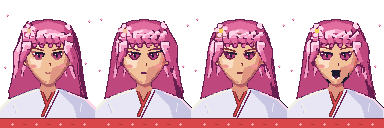
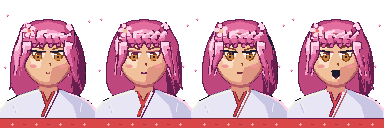
Sakura bust: ship variant 4 (amber almond eyes with clear whites, rounder bob), plumper face and softer shoulders
Claude-Session: https://claude.ai/code/session_01J8LgTLVYzThXjNSRVhWqep

diff --git a/tools/sprites/anime_busts.py b/tools/sprites/anime_busts.py
@@ -564,12 +564,12 @@ HAIRS = {H_EDGE, HR, H_D, H_L, H_HI}
 EYES = {
     "narrow": dict(ow=3.4, outer=-2.4, inner=-0.6, peak=0.0, lo=(0.55, 0.4, 0.8, 0.6), white=False, irx=0, iry=0, shift=0,
                    hl2=False, cy=27.8, gap=9.6, brow=0.0),
-    "almond": dict(ow=3.2, outer=-1.9, inner=-0.9, peak=0.0, lo=(0.5, 0.4, 1.2, 1.0), white=True, irx=2.2, iry=2.6,
-                   shift=0.4, hl2=False, cy=27.8, gap=9.6, brow=0.0),
+    "almond": dict(ow=3.6, outer=-2.5, inner=-1.7, peak=0.0, lo=(0.5, 0.4, 1.9, 1.7), white=True, irx=1.8, iry=2.25,
+                   shift=0.0, hl2=False, cy=27.8, gap=9.6, brow=0.7),
     "round": dict(ow=3.5, outer=-2.1, inner=-1.3, peak=1.1, lo=(0.0, 0.0, 2.7, 2.3), white=True, irx=2.7, iry=3.1,
                   shift=0.2, hl2=True, cy=28.4, gap=9.4, brow=0.7),
 }
-SDEFAULT = dict(eyes="almond", iris="rose", hair="long", cheeks=0.0, shade=1)
+SDEFAULT = dict(eyes="almond", iris="amber", hair="bob", cheeks=0.03, shade=1)       # variant 4, plumper
 SCFG = dict(SDEFAULT)
 
 
@@ -610,8 +610,8 @@ def ellipse_pts(cx, cy, rx, ry, n=24):
 
 
 # face: Flint's polygon, narrowed about 1.4 units at the jaw with a softer chin (cheeks widen / narrow it a bit)
-SFACE0 = [(13.4, 17), (34.6, 17), (35.4, 27.5), (34.0, 33), (30.2, 38.4), (26.6, 41.8), (24, 42.8), (21.4, 41.8),
-          (17.8, 38.4), (14.0, 33), (12.6, 27.5)]
+SFACE0 = [(13.4, 17), (34.6, 17), (35.6, 27.5), (35.6, 31.5), (34.6, 35.2), (31.8, 39.4), (28.0, 42.2), (24, 43.0),
+          (20.0, 42.2), (16.2, 39.4), (13.4, 35.2), (12.4, 31.5), (12.4, 27.5)]
 
 
 def s_face_pts():
@@ -620,9 +620,9 @@ def s_face_pts():
 
 
 STOFF = 0.8                    # Flint's 3.5 less 2.7: a shorter neck
-SNECK = [(20.6, 35), (27.4, 35), (28.0, 45), (20.0, 45)]
-STORSO = [(0, 64), (0, 53.5), (5, 48.5), (14, 45.0), (20.4, 43.0), (23.45, 52.0), (27.6, 43.0), (34, 45.0), (43, 48.5),
-          (48, 53.5), (48, 64)]
+SNECK = [(20.2, 35), (27.8, 35), (28.6, 45), (19.4, 45)]
+STORSO = [(0, 64), (0, 54), (3.5, 49.8), (9, 46.9), (15, 45.0), (20.4, 43.2), (23.45, 52.0), (27.6, 43.2), (33, 45.0), (39, 46.9),
+          (44.5, 49.8), (48, 54), (48, 64)]
 
 
 def s_eye(img, d, cx, cy, side, o, wide=1.0):
@@ -652,11 +652,11 @@ def s_eye(img, d, cx, cy, side, o, wide=1.0):
     if E["white"]:
         d.polygon([P(*p) for p in pts], fill=CREAM)
         ic = cx - side * E["shift"]
-        iris = both(poly_mask(ellipse_pts(ic, cy + 0.3, E["irx"], E["iry"], 24)), am)
+        iris = both(poly_mask(ellipse_pts(ic, cy + 0.45, E["irx"], E["iry"], 24)), am)
         paste_mask(img, mid, iris)
         paste_mask(img, dark, both(iris, box_mask(0, 0, 48, cy - 0.3)))
         d = ImageDraw.Draw(img)
-        d.rectangle(((ic - 0.4) * K, (cy + 0.0) * K, (ic + 0.4) * K, (cy + 1.0) * K), fill=INK)
+        d.rectangle(((ic - 0.35) * K, (cy + 0.2) * K, (ic + 0.35) * K, (cy + 1.1) * K), fill=INK)
         hx, hy = ic - 0.75, cy - 0.7
         if E["hl2"]:
             d.rectangle(((ic + 0.9) * K - 4, (cy + 1.7) * K - 4, (ic + 0.9) * K + 4, (cy + 1.7) * K + 4), fill=WHITE)
@@ -666,9 +666,9 @@ def s_eye(img, d, cx, cy, side, o, wide=1.0):
         paste_mask(img, dark, both(am, lm))
         d = ImageDraw.Draw(img)
         hx, hy = cx + side * 0.5, cy - 0.7
-    d.line([P(*p) for p in lo], fill=MAROON, width=6)
+    d.line([P(*p) for p in lo[len(lo) // 2:]], fill=SK_D if E["white"] else MAROON, width=5 if E["white"] else 6)
     d.rectangle((hx * K - 7, hy * K - 7, hx * K + 7, hy * K + 7), fill=WHITE)
-    d.line([P(*p) for p in up], fill=INK, width=11)
+    d.line([P(*p) for p in up], fill=INK, width=11 if not E["white"] else 9)
     d.line([P(*outer), P(outer[0] + side * 1.3, outer[1] - 0.8)], fill=INK, width=8)
     return d
 
@@ -752,7 +752,7 @@ def s_draw_face(img, neckm, torm, expr):
     paste_mask(img, SK_L, both(facem, poly_mask([(15.4, 22.5), (21, 22.5), (20.5, 24.5), (15.2, 25)])))
     paste_mask(img, SK_S, both(facem, inv(shift(facem, int((-22 if strong else -12) * F), 0))))
     if strong:
-        paste_mask(img, SK_S, both(facem, poly_mask([(26.0, 34.0), (35.2, 30.5), (33.6, 36.0), (27.4, 41.8), (24.5, 41.4)])))
+        paste_mask(img, SK_S, both(facem, poly_mask([(26.0, 34.0), (35.8, 30.5), (34.4, 36.5), (28.6, 42.2), (24.5, 41.8)])))
         chin = both(facem, inv(shift(facem, 0, int(-14 * F))))
         paste_mask(img, SK_S, both(chin, shift(facem, int(-30 * F), 0)))
     paste_mask(img, SK_D, both(both(facem, inv(shift(facem, int(-9 * F), 0))), box_mask(0, 25, 48, 40)))
@@ -810,7 +810,7 @@ def s_back_hair(img, s, left, k=0.8):
 
 BACKS = {
     "long": [(24, 9.8), (16.5, 10.8), (11.2, 15.5), (8.4, 23), (7.0, 33), (5.6, 43), (4.6, 52), (6.0, 59)],
-    "bob": [(24, 9.8), (16.5, 10.8), (11.0, 15.5), (8.0, 23), (6.6, 31), (6.2, 38), (7.4, 44), (10.0, 49)],
+    "bob": [(24, 9.8), (16.5, 10.8), (11.0, 15.5), (7.6, 22), (5.6, 30), (5.0, 37), (5.8, 43), (8.4, 47.5), (12.0, 51)],
     "head": [(24, 9.8), (16.5, 10.8), (11.4, 15.5), (9.8, 23), (10.4, 29), (12.4, 33.5)],
 }
 
@@ -878,7 +878,7 @@ def s_hair_under(img, s):
         locks(hd, s, [((17.5, 13.5), (5.4, 44.0), 8.0, 2.0), ((19.0, 14.5), (11.4, 44.0), 6.4, -1.6)])
         bun(hl, hd, 24.0, 8.6, 4.4)
     elif st == "bob":
-        locks(hd, s, [((17.5, 13.5), (8.4, 44.0), 9.0, 1.8), ((19.0, 14.5), (13.0, 43.0), 6.5, -1.4)])
+        locks(hd, s, [((16.5, 13.5), (5.4, 45.0), 8.4, 2.6), ((18.0, 14.0), (10.4, 46.0), 7.4, -2.2), ((19.5, 14.5), (15.4, 43.5), 5.6, 2.0)], n=40)
     elif st == "pony":
         hair(hd, (31.0, 12.0), (45.0, 42.0), 12.0, -2.4, sway=s * 1.6, ph=0.3 + s * 0.2, n=36, wave=0.2, bands=LOCK_BANDS)
         hair(hd, (30.0, 12.5), (41.0, 48.0), 8.0, 2.6, sway=s * 2.0, ph=0.9 + s * 0.2, n=36, wave=0.2, bands=LOCK_BANDS)
@@ -1024,7 +1024,7 @@ def make_sakura_frame(sway, expr, cfg=None):
     px = out.load()
     prot = {(x, y) for y in range(44, 66) for x in range(26, 72) if px[x, y] == WHITE + (255,)}
     out = cleanup(out, prot)
-    out = s_recolor_interior(out, (38, 66, 60, 82) if expr == "shout" else None)
+    out = s_recolor_interior(out, (40, 68, 56, 80) if expr == "shout" else None)
     add_obi_motif(out)
     add_petals(out, sway)
     return out
